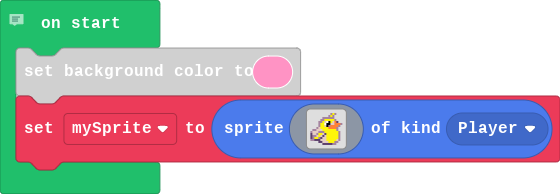
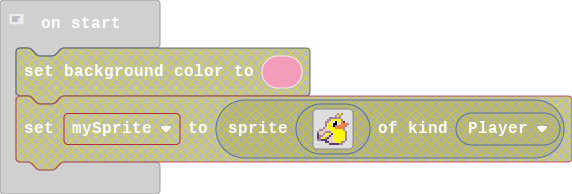
deleted all of this

diff --git a/main.ts b/main.ts
@@ -1,20 +1,1 @@
 // Don't forget to comment your code as you work!
-scene.setBackgroundColor(3)
-let mySprite = sprites.create(img`
-    . . . . . . . . . . b 5 b . . . 
-    . . . . . . . . . b 5 b . . . . 
-    . . . . . . b b b b b b . . . . 
-    . . . . . b b 5 5 5 5 5 b . . . 
-    . . . . b b 5 d 1 f 5 d 4 c . . 
-    . . . . b 5 5 1 f f d d 4 4 4 b 
-    . . . . b 5 5 d f b 4 4 4 4 b . 
-    . . . b d 5 5 5 5 4 4 4 4 b . . 
-    . b b d d d 5 5 5 5 5 5 5 b . . 
-    b d d d b b b 5 5 5 5 5 5 5 b . 
-    c d d b 5 5 d c 5 5 5 5 5 5 b . 
-    c b b d 5 d c d 5 5 5 5 5 5 b . 
-    c b 5 5 b c d d 5 5 5 5 5 5 b . 
-    b b c c c d d d 5 5 5 5 5 d b . 
-    . . . . c c d d d 5 5 5 b b . . 
-    . . . . . . c c c c c b b . . . 
-    `, SpriteKind.Player)
